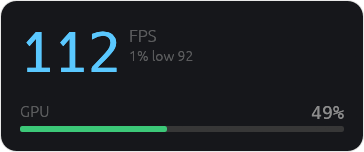
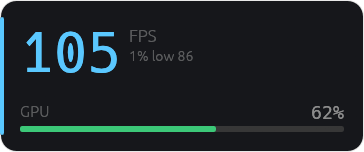
Add a signature accent rail to the panel
A 3px accent bar down the panel's left edge, inset to clear the rounded
corners, ties the theme colour into the panel structure (it previously
appeared only in the hero number and sparkline). Re-captured all four README
screenshots.

diff --git a/src/gui/app.rs b/src/gui/app.rs
@@ -140,6 +140,18 @@ impl eframe::App for Overlay {
                 }
             });
 
+        // A signature accent rail on the panel's left edge, inset to clear the
+        // rounded corners.
+        let corner = 12.0 * scale;
+        let rail_w = (3.0 * scale).max(2.0);
+        let rect = panel.response.rect;
+        let rail = egui::Rect::from_min_size(
+            rect.left_top() + egui::vec2(0.0, corner),
+            egui::vec2(rail_w, (rect.height() - 2.0 * corner).max(rail_w)),
+        );
+        ui.painter()
+            .rect_filled(rail, egui::CornerRadius::same(rail_w as u8), accent);
+
         // Fit the window to the measured panel: `content_size` is only an
         // initial guess, so a bottom/right anchor sits flush instead of being
         // offset by any leftover height.

diff --git a/gui.md b/gui.md
@@ -66,6 +66,7 @@ An OSD that looks like a piece of lab equipment, not a widget. Rules:
 17. [x] Demo mode (`MINIHUD_DEMO=1`) + README screenshots of four variations.
 18. [x] Design pass from the screenshots: compact memory, hero rework, temp tints.
 19. [x] Threshold tune: load amber at 70%, red at 85%; temps green<65, amber<80.
+20. [x] Signature accent rail on the panel's left edge.
 
 ## Progress log
 
@@ -176,3 +177,7 @@ An OSD that looks like a piece of lab equipment, not a widget. Rules:
   reads alarm and the number never disagrees with the bar). Temps get their own
   bands (green <65 °C, amber <80 °C, red above). Removed the sparkline's stray
   background box. Re-captured the two Full screenshots. Gate green (187 tests).
+- 2026-10-11: Accent rail (item 20). A 3px accent bar down the panel's left
+  edge (inset to clear the rounded corners) ties the theme colour into the panel
+  structure — previously the accent only appeared in the hero number and the
+  sparkline. Re-captured all four README screenshots. Gate green (187 tests).
